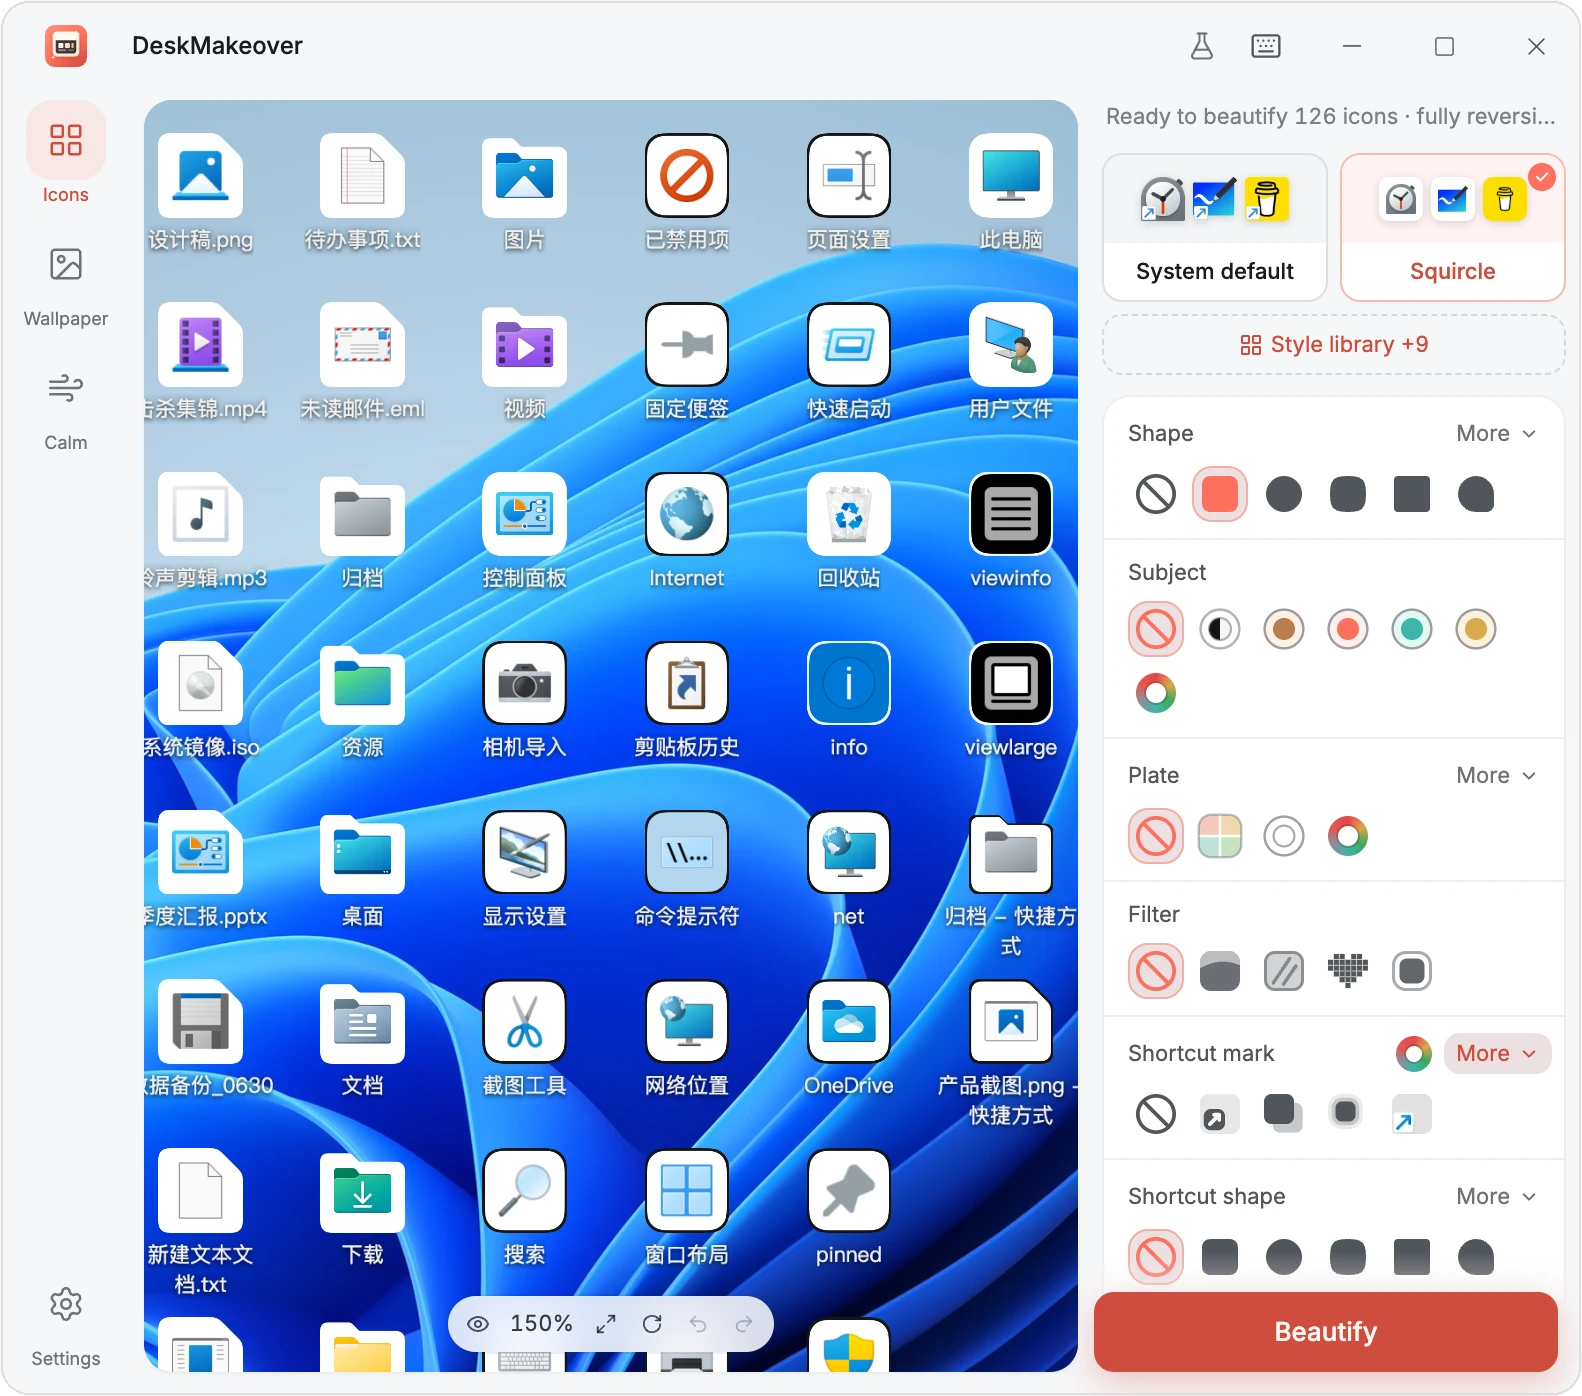
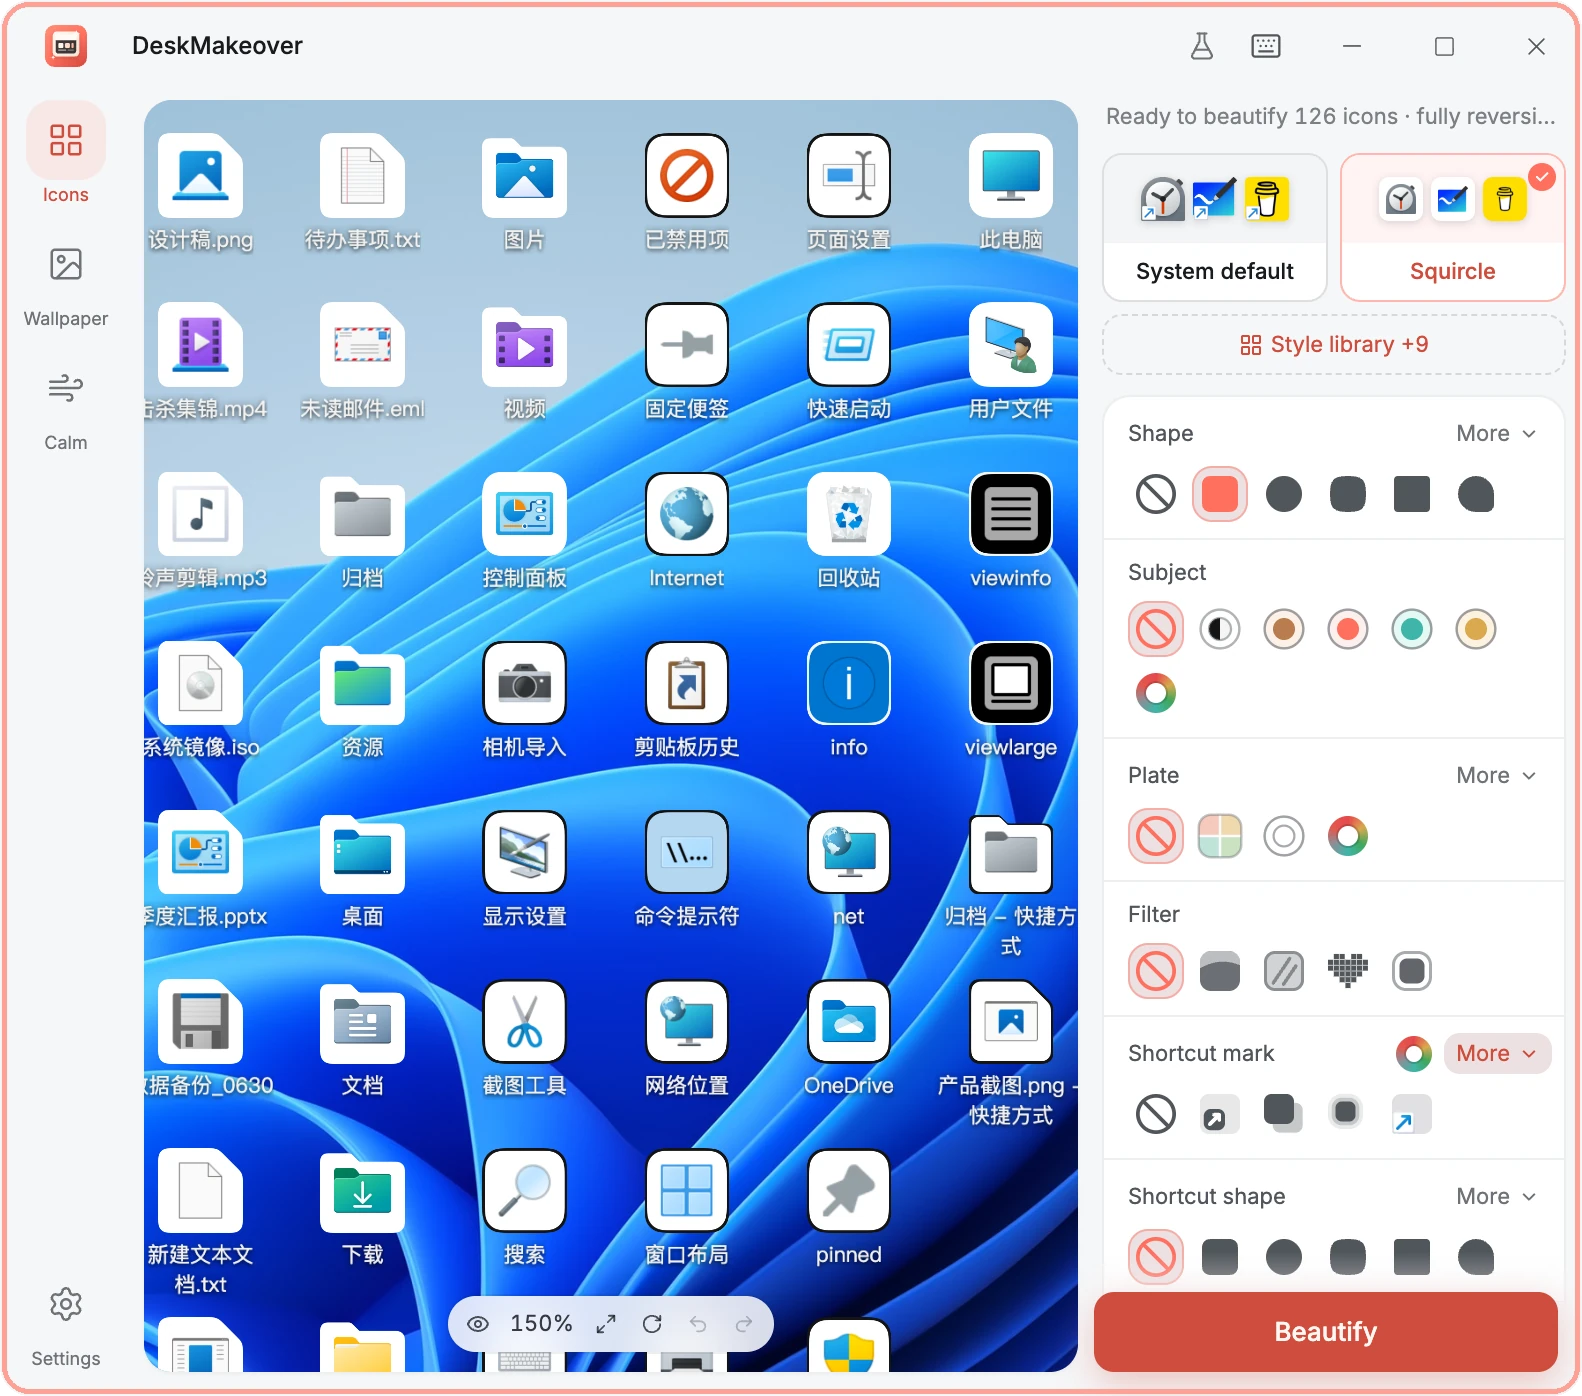
docs(readme): coral brand border on every image + compact footer
- Every raster asset re-baked with a display-proportional coral (#FF6F5E)
  border over the unified rounded corners; the hero SVG's white hairline
  becomes the same coral stroke. One frame signature across the page.
- Footer: the dynamic stars badge rendered 'repo not found' while the repo
  is private, and stacked <br/>s left the closing block hollow. Badge
  dropped (star CTA is now a plain link; social badge returns at launch),
  spacing compacted into a tight logo/title/links lockup.

Changed region(s): [[0.0, 0.0, 1.0, 1.0]]

diff --git a/README.md b/README.md
@@ -188,20 +188,10 @@ The React UI, the Rust core, docs, localization, and Windows compatibility testi
 
 <div align="center">
 
-<br/>
-
-**Made your desktop nicer? Give it a ⭐ so more people find it.**
-
-<a href="https://github.com/nicepkg/deskmakeover"><img src="https://img.shields.io/github/stars/nicepkg/deskmakeover?style=social" alt="Star DeskMakeover" /></a>
-
-<br/><br/>
+**Made your desktop nicer? [Give it a ⭐](https://github.com/nicepkg/deskmakeover) so more people find it.**
 
 <img src=".github/assets/rule-gradient.svg" width="880" alt="" />
 
-<img src=".github/assets/logo.png" width="40" alt="" />
-
-**DeskMakeover · 桌面美颜**
-
-[Releases](https://github.com/nicepkg/deskmakeover/releases) · [Issues](https://github.com/nicepkg/deskmakeover/issues) · **English** · [中文](README.zh-CN.md)
+<img src=".github/assets/logo.png" width="40" alt="" /><br/><b>DeskMakeover · 桌面美颜</b><br/><sub>[Releases](https://github.com/nicepkg/deskmakeover/releases) · [Issues](https://github.com/nicepkg/deskmakeover/issues) · English · [中文](README.zh-CN.md)</sub>
 
 </div>
